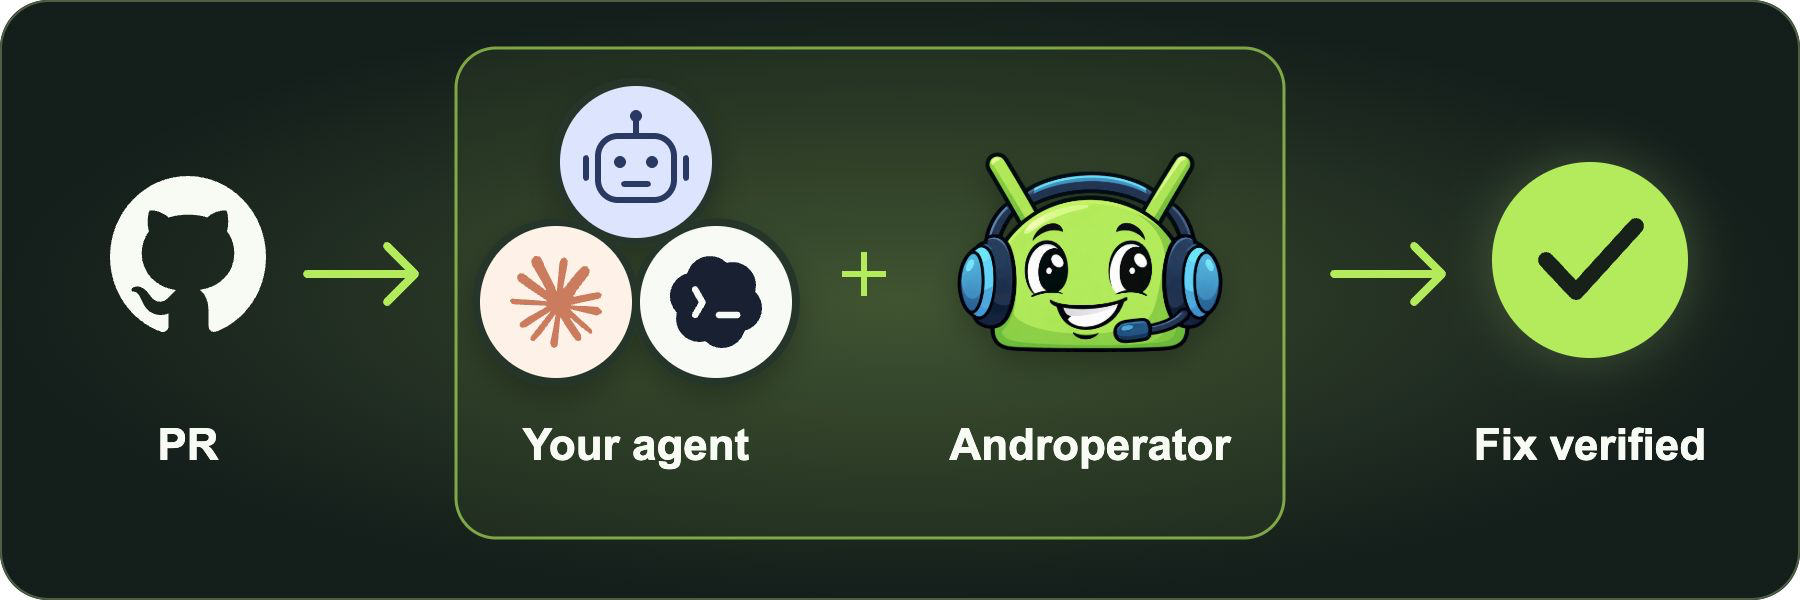
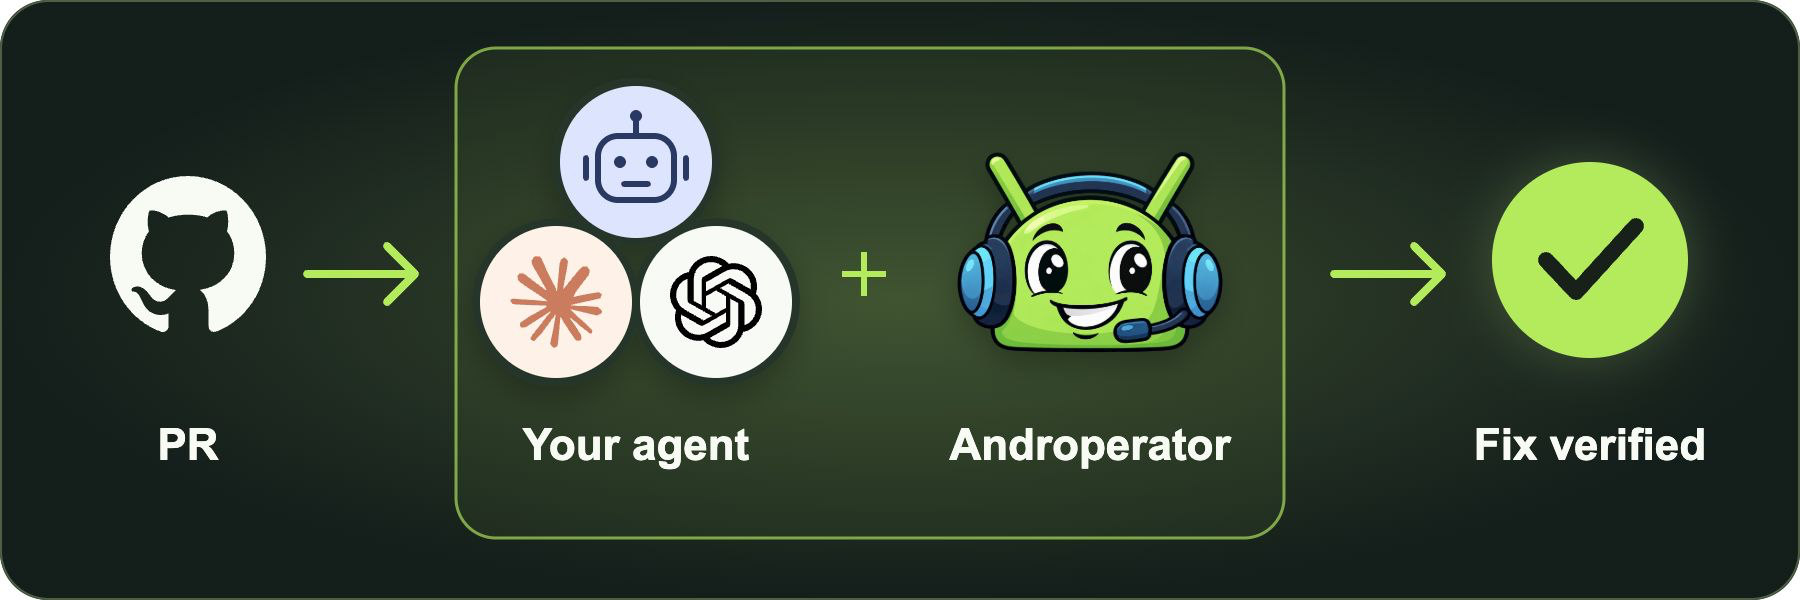
docs(site): source agent marks directly from their vendors

Changed region(s): [[0.3733, 0.42, 0.4356, 0.6]]

diff --git a/sites/landing/README.md b/sites/landing/README.md
@@ -21,9 +21,13 @@ Readable diagram source remains available if JavaScript is disabled or rendering
 fails. The QA section uses the same checked-in image in the README and website.
 Its editable source is `assets/qa-verification.svg`; export the complete SVG at its
 native 1800 × 600 size to `assets/qa-verification.png` after editing. The build
-copies that PNG unchanged. Claude and Codex marks come from
-[Lobe Icons](https://github.com/lobehub/lobe-icons); their MIT license is retained
-in `assets/qa-icons-LICENSE.txt`. Diagram explanations and examples share the same README sections.
+copies that PNG unchanged. The Claude Spark comes directly from
+[Anthropic’s press kit](https://anthropic.com/press-kit), using its
+`Claude Spark - Clay.svg` asset. The OpenAI logo comes from the inline SVG on
+[OpenAI’s Codex documentation page](https://developers.openai.com/codex/).
+These marks belong to Anthropic and OpenAI respectively. Their original paths
+and colors are preserved in the illustration. Diagram explanations and examples
+share the same README sections.
 
 The hero logo gently bobs unless reduced motion is requested. The header stays
 visible and tracks the Why, How it works, and Install sections with

diff --git a/README.md b/README.md
@@ -81,7 +81,7 @@ steps. Verify that the preference survives closing and reopening the app.
 Write a report with pass/fail results, screenshots, and anything you couldn't
 verify.”**
 
-![GitHub PR → your agent (robot, Claude, or Codex) + Androperator → verified UI fix](assets/qa-verification.png)
+![GitHub PR → your agent (robot, Claude, or OpenAI) + Androperator → verified UI fix](assets/qa-verification.png)
 
 Your agent reports what passed, what failed, and what it couldn't verify,
 with evidence for you to review. Run the same checks again for the next fix,
